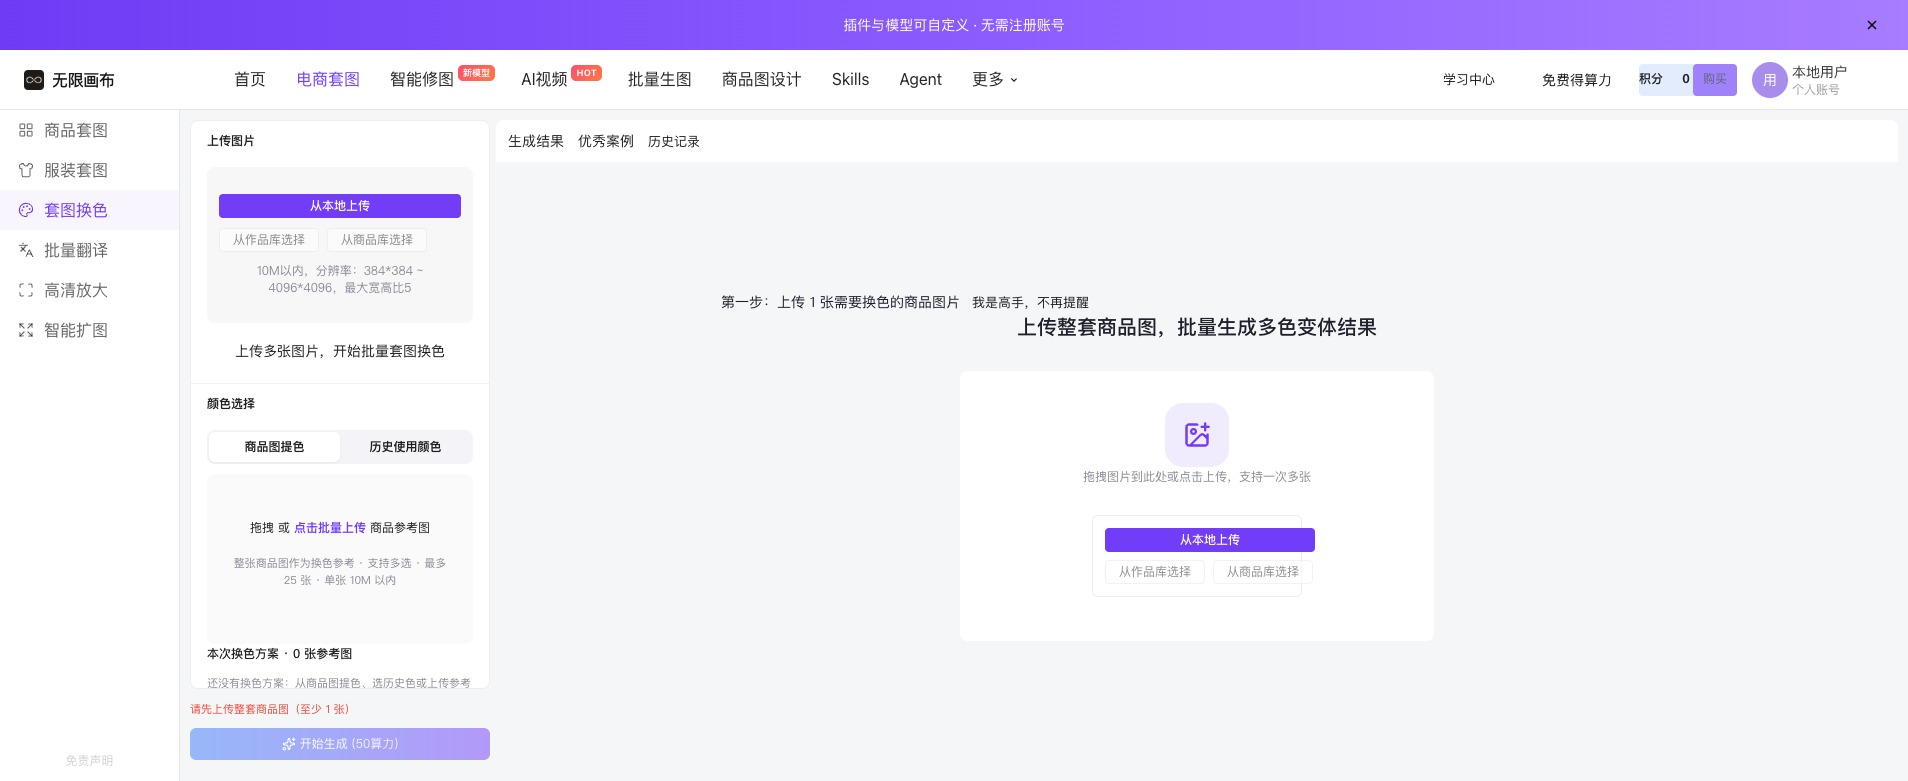
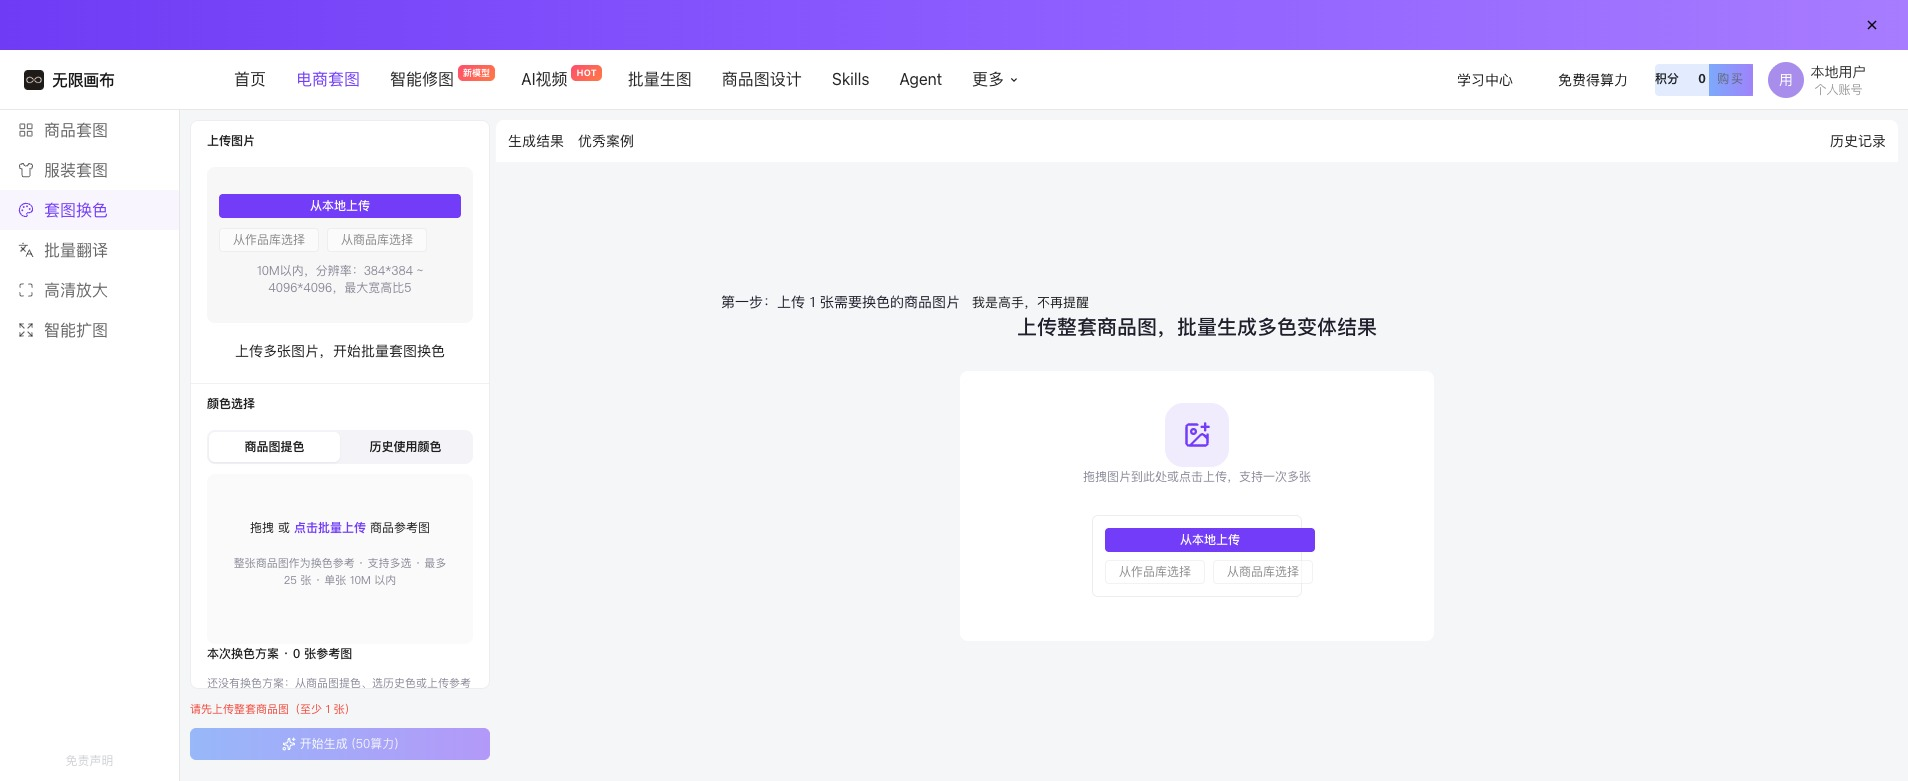
fix(CHANGE_COLOR_V2): 右栏页签条对齐原站（历史记录 14px 且右对齐）PARTIAL
- 历史记录 tab 字号 12→14px，改用内联 marginLeft:auto（项目全局样式吃掉 ml-auto，实测计算值 0px）
- 实测：本地 x1830-1886，原站 x1819-1887（右缘 1886 vs 1887）
- PARITY_REPORT 补右栏页签对齐行、细化 D3（原站空态为平台案例图轮播，本地以部位模板卡承载）、补内联覆盖注意事项
- 刷新本地同视口截图 shot-current.jpg

验证：bun run typecheck 0 error；change-color-v2.test.ts 36 pass

diff --git a/web/src/components/tools/workspaces/color-v2.tsx b/web/src/components/tools/workspaces/color-v2.tsx
@@ -844,9 +844,10 @@ export function ColorV2Workspace({ className }: ColorV2WorkspaceProps = {}) {
                         type="button"
                         data-testid="color-v2-tab-history"
                         onClick={() => setRightTab("history")}
+                        style={{ fontSize: 14, fontWeight: rightTab === "history" ? 500 : 400, marginLeft: "auto" }}
                         className={cn(
-                            "ml-auto text-[12px] leading-none transition",
-                            rightTab === "history" ? "font-medium text-[#723cf9]" : "text-[#6b6b80] hover:text-[#723cf9]",
+                            "text-[14px] leading-none transition",
+                            rightTab === "history" ? "text-[#723cf9]" : "text-[#000000e0] hover:text-[#723cf9]",
                         )}
                     >
                         历史记录

diff --git a/docs/V1.0/plan_linkfox_navigation/evidence/real-acceptance/CHANGE_COLOR_V2/PARITY_REPORT.md b/docs/V1.0/plan_linkfox_navigation/evidence/real-acceptance/CHANGE_COLOR_V2/PARITY_REPORT.md
@@ -35,6 +35,7 @@
 | 品质分组容器 | `#f7f7f7` / radius 4 / padding 8 | 一致 |
 | CTA 按钮 | 全宽 300×32 / radius 6 / 渐变 `#3B7AF9→#723CF9` / 白字 12px | 一致 |
 | CTA 贴底定位 | 内容区独立滚动，按钮固定卡底，距卡底 ~10–11px | 固定卡底，距底 11px（rel 608–640） |
+| 右栏页签条 | `生成结果`/`优秀案例` 左对齐 14px，`历史记录` 右对齐 14px（原站 x1819–1887） | 左对齐 14px + `历史记录` 右对齐 14px（x1830–1886，右缘 1886 vs 1887），条高 42px |
 
 ## 交互实测（本地）
 
@@ -52,7 +53,7 @@
 |---|---|---|---|---|---|
 | D1 | 主区起点 | y110（页面顶部有 50px 促销条） | y120（无促销条，框架不同） | 框架层 | 非本组件，左卡自身仍是 651 高 |
 | D2 | 禁用原因提示 | 静默置灰，无文案 | CTA 上方一行 `请先上传整套商品图（至少 1 张）`（11px 红字） | 增强 | 可用于可访问性；不改变 CTA 位置（按钮仍贴底） |
-| D3 | 右栏空态 | 大引导区（`第一步：上传…` 图文） | tab 条 + 居中空态文案 `拖拽图片到此处或点击上传，支持一次多张` | 结构 | 右栏内容为自研空态；高度已撑满（h-full 居中） |
+| D3 | 右栏「生成结果」空态 | `第一步：上传 1 张需要换色的商品图片` + `上传整套商品图，批量生成多色变体结果` + **平台案例图轮播**（前后对比大图 + `一键做同款` 110×40 + 分页 1–6，横向溢出至 x>11000） | coach mark 文案与标题一致；主体是自研拖拽上传区（虚线框 + 三个来源按钮），无案例图轮播 | 结构/素材 | 原站轮播使用平台案例图素材（`ELEGANCE DEFINED BY STRUCTURE…` 等），本地无该素材，改以「优秀案例」页签的部位模板卡承载同等入口 |
 | D4 | 卡内附加信息 | 无 | 预计输出张数 / 一致性报告入口（有结果时） | 增强 | 产品功能增强，不影响空态外观 |
 
 ## 验证命令
@@ -64,6 +65,6 @@ bun test src/features/tools/adapters/change-color-v2.test.ts       # 36 pass / 0
 
 ## 关键实现提示（回归注意）
 
-- 项目 `styles/globals.css` 存在按钮颜色覆盖，**选中态/CTA 文字色必须用内联 `style`**，仅用 Tailwind `text-[#723cf9]` 会被覆盖（本次已修）。
+- 项目 `styles/globals.css` 存在全局覆盖，**选中态/CTA 文字色与 `ml-auto` 之类的对齐工具类都可能被吃掉**：关键颜色/对齐请用内联 `style`（本次「历史记录」右对齐即靠 `marginLeft: "auto"` 修好）。
 - CTA 必须放在 `shrink-0` 的外层容器（内容区 `flex-1 overflow-y-auto`），否则会随内容滚走。
 - 提示行（blocked/notice）放在按钮**上方**，保证按钮始终贴底。
